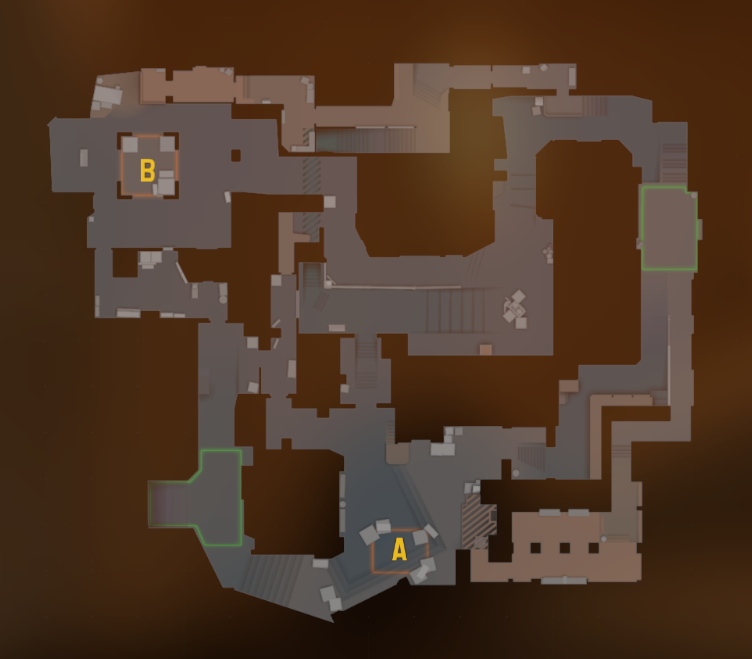
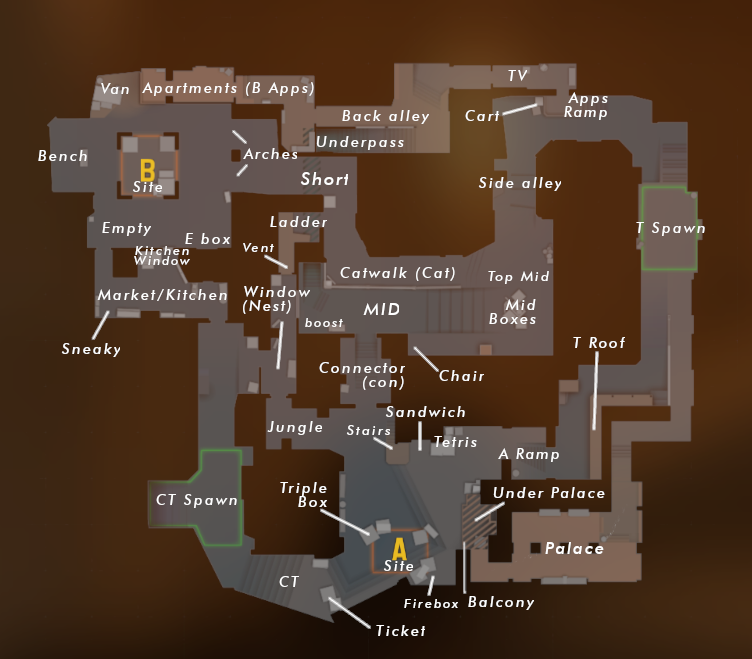
update
update

diff --git a/Resources/style.css b/Resources/style.css
@@ -7,7 +7,7 @@ html{
     font-family: 'Oswald', serif;
 }
 body{
-    background: url(../Media/Images/mapbg.webp);
+    background: url(../Media/Images/backgroundmaybe.jpg);
 
 }
 
@@ -27,7 +27,14 @@ header{
     background-color: rgb(255, 181, 45);
     padding: 50px;
     margin-top: -20px;
-    
+}
+
+header a:hover{
+color: white;
+}
+
+a:hover{
+    color: black;
 }
 
 
@@ -42,6 +49,30 @@ section{
     background-color: rgba(79, 80, 80, 0.8);
     border-radius: 8px;
     border: rgb(255, 181, 45) solid 3px; 
+    color: white;
+    letter-spacing: 2px;
+    text-decoration: underline;
+    padding-bottom: 20px;
+}
+
+.mainbody{
+    width: 70%;
+    height: 70%;
+    display: flex;
+    margin: 50px auto;
+    flex-direction: column;
+    justify-content: space-evenly;
+    align-items: center;
+    background-color: rgba(79, 80, 80, 0.8);
+    border-radius: 8px;
+    border: rgb(255, 181, 45) solid 3px; 
+    color: white;
+    letter-spacing: 3px;
+    text-decoration: underline;
+}
+
+section h2{
+    margin: 20px;
 }
 
 .toprow{
@@ -139,6 +170,7 @@ a{
     display: flex;
     border-radius: 10px;
     border: rgb(255, 181, 45) solid 3px;
+    margin-bottom: 0px;
     
 }
 
@@ -187,3 +219,44 @@ a{
     width: 750px;
 }
 
+/*Experimental Hero Starts*/
+
+/* Slideshow container */
+.slideshow-container {
+    max-width: 1250px;
+    position: relative;
+    margin: auto;
+    padding-bottom: 15px;
+  }
+  
+  /* Next & previous buttons */
+  .prev, .next {
+    cursor: pointer;
+    position: absolute;
+    top: 50%;
+    width: auto;
+    padding: 16px;
+    margin-top: -22px;
+    color: white;
+    font-weight: bold;
+    font-size: 18px;
+    transition: 0.6s ease;
+    border-radius: 0 3px 3px 0;
+    user-select: none;
+  }
+  
+  /* Position the "next button" to the right */
+  .next {
+    right: 0;
+    border-radius: 3px 0 0 3px;
+  }
+  
+  /* On hover, add a grey background color */
+  .prev:hover, .next:hover {
+    background-color: #f1f1f1;
+    color: black;
+  }
+
+  .backhome{
+    color: white;
+  }

diff --git a/mirage.html b/mirage.html
@@ -16,10 +16,50 @@
   <div class="subheading">
     <img src="Media/Images/mirageLOGO.webp" alt="mirage logo"><h2>Mirage</h2><img src="Media/Images/mirageLOGO.webp" alt="mirage logo">
   </div>
-    <section>
+    <section class="mainbody">
+       <div><h2>Basic Mirage Callouts - Minimap</h2></div>
       <div class="bigmaps"><img src="Media/Images/bigmirage.png" alt="Mirage Minimap Fullscreen"></div>
-    </section>
+    
 
+    <!--EXPERIMENTAL HERO STARTS -->
+    
+    <!-- Slideshow container -->
+
+    <h2>Mirage - Visual Callouts</h2>
+    <div class="slideshow-container">
+      <div class="mySlides1">
+        <img src="Media/Images/Visual-callouts/Mirage-A2.png" style="width:100%">
+      </div>
+    
+      <div class="mySlides1">
+        <img src="Media/Images/Visual-callouts/Mirage-A1.png" style="width:100%">
+      </div>
+    
+      <div class="mySlides1">
+        <img src="Media/Images/Visual-callouts/Mirage-A3.png" style="width:100%">
+      </div>
+
+      <div class="mySlides1">
+        <img src="Media/Images/Visual-callouts/Mirage-B1.png" style="width:100%">
+      </div>
+
+      <div class="mySlides1">
+        <img src="Media/Images/Visual-callouts/Mirage-B2.png" style="width:100%">
+      </div>
+
+      <div class="mySlides1">
+        <img src="Media/Images/Visual-callouts/Mirage-mid1.png" style="width:100%">
+      </div>
+
+      <div class="mySlides1">
+        <img src="Media/Images/Visual-callouts/Mirage-mid2.png" style="width:100%">
+      </div>
+    
+      <a class="prev" onclick="plusSlides(-1, 0)">&#10094;</a>
+      <a class="next" onclick="plusSlides(1, 0)">&#10095;</a>
+    </div>
+    <div><a class="backhome" href="index.html"><h1>Back to Maps</h1></a></div>
+</section>
 
   <script src="script.js"></script>
 </body>

diff --git a/script.js b/script.js
@@ -1,0 +1,20 @@
+let slideIndex = [1,1];
+let slideId = ["mySlides1", "mySlides2"]
+showSlides(1, 0);
+showSlides(1, 1);
+
+
+function plusSlides(n, no) {
+  showSlides(slideIndex[no] += n, no);
+}
+
+function showSlides(n, no) {
+  let i;
+  let x = document.getElementsByClassName(slideId[no]);
+  if (n > x.length) {slideIndex[no] = 1}    
+  if (n < 1) {slideIndex[no] = x.length}
+  for (i = 0; i < x.length; i++) {
+     x[i].style.display = "none";  
+  }
+  x[slideIndex[no]-1].style.display = "block";  
+}
